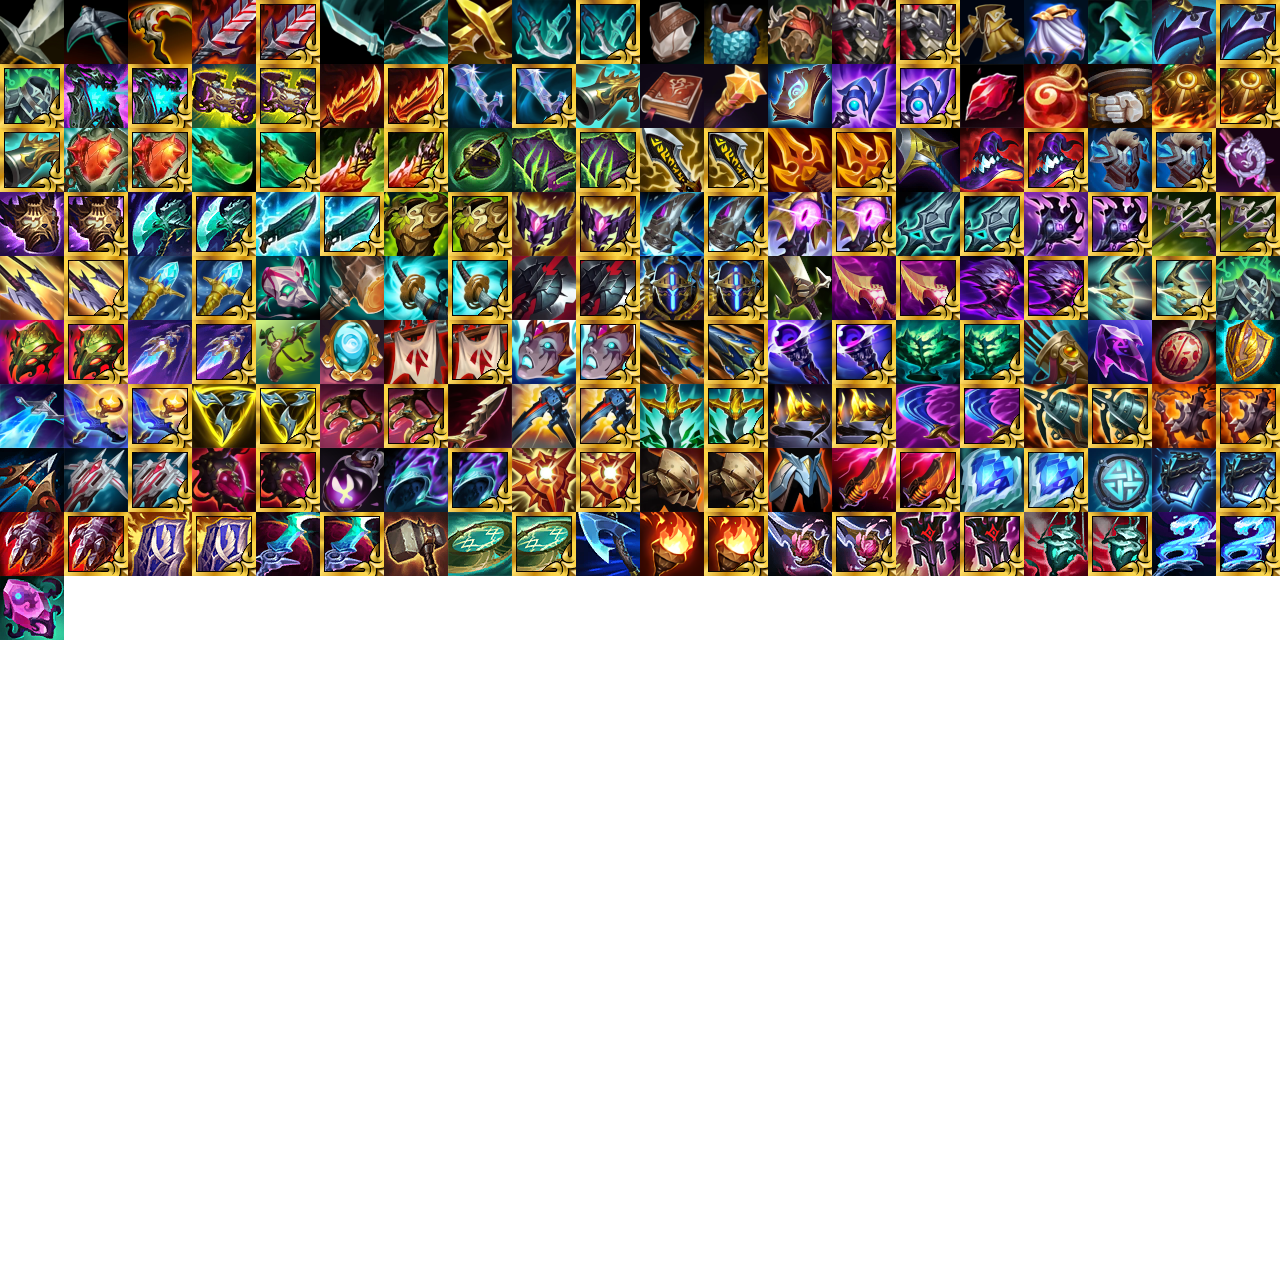
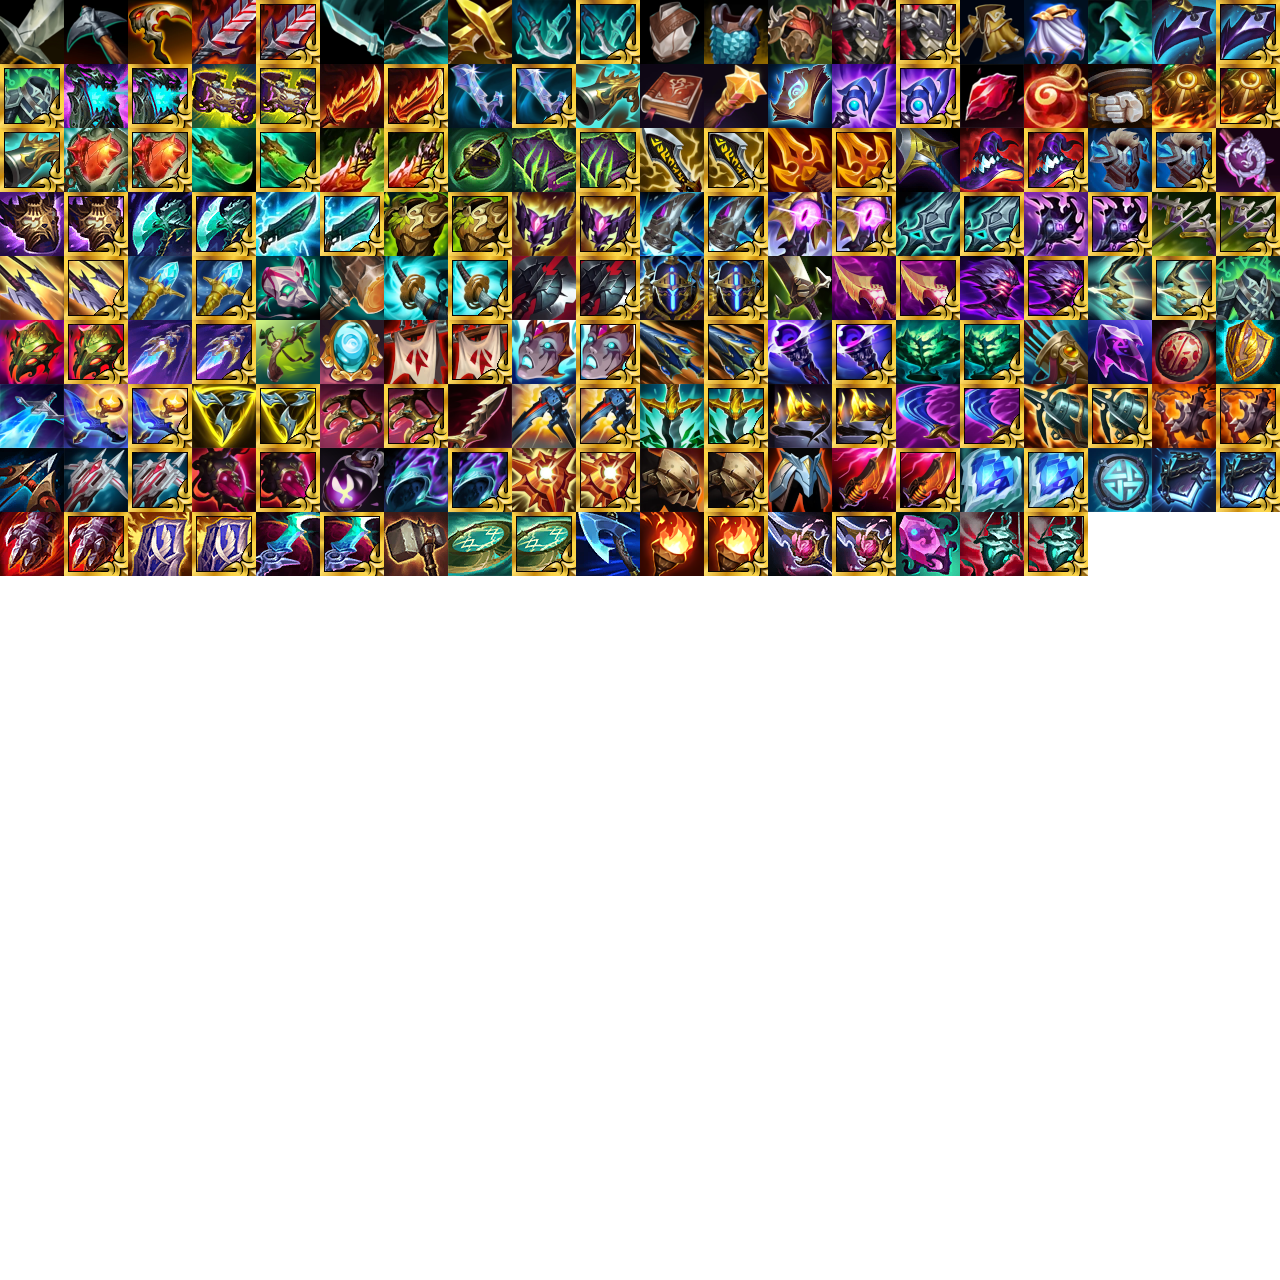
sword changes and fix for sprite sheet

Changed region(s): [[0.6875, 0.375, 1.0, 0.4688], [0.0, 0.4375, 0.0625, 0.5]]

diff --git a/src/items/support/sword_of_blossoming_dawn.rs b/src/items/support/sword_of_blossoming_dawn.rs
@@ -1,9 +1,8 @@
 use mod_api_stable::*;
 
 use crate::config::ItemConfig;
-use crate::{apply_config, ItemMeta};
+use crate::{apply_config, percent_of, ItemMeta, DISTANCE_UNITS_PER_RANGE};
 
-/// Raw stats only — no passive yet.
 #[derive(Clone, Debug)]
 pub struct SwordOfBlossomingDawn {
     meta: ItemMeta,
@@ -12,6 +11,11 @@ pub struct SwordOfBlossomingDawn {
     hp: i32,
     magic_power: i32,
     skill_cooldown_mult: i32,
+    effect_min_heal: usize,
+    effect_max_heal: usize,
+    effect_ad_percent_heal: f64,
+    effect_ap_percent_heal: f64,
+    effect_max_distance: usize,
 }
 
 impl SwordOfBlossomingDawn {
@@ -27,6 +31,11 @@ impl SwordOfBlossomingDawn {
             hp: 200,
             magic_power: 40,
             skill_cooldown_mult: 10,
+            effect_min_heal: 15,
+            effect_max_heal: 60,
+            effect_ad_percent_heal: 7.0,
+            effect_ap_percent_heal: 7.0,
+            effect_max_distance: 100,
         }
     }
 
@@ -62,10 +71,26 @@ impl SwordOfBlossomingDawn {
                 attack_speed_mult,
                 hp,
                 magic_power,
-                skill_cooldown_mult
+                skill_cooldown_mult,
+                effect_min_heal,
+                effect_max_heal,
+                effect_ad_percent_heal,
+                effect_ap_percent_heal,
+                effect_max_distance
             ]
         );
         self
+    }
+
+    /// Level 1 pays `effect_min_heal` and level 12 pays `effect_max_heal`,
+    /// the same eleven-step ramp `bloodsong` uses for Spellblade.
+    fn heal_amount(&self, level: usize, attack: usize, magic_power: usize) -> usize {
+        let per_level =
+            ((self.effect_max_heal - self.effect_min_heal) as f64 / 11.0).round() as usize;
+        self.effect_min_heal
+            + level.saturating_sub(1) * per_level
+            + percent_of(attack, self.effect_ad_percent_heal)
+            + percent_of(magic_power, self.effect_ap_percent_heal)
     }
 }
 
@@ -113,6 +138,77 @@ impl StableItem for SwordOfBlossomingDawn {
             ult_cooldown_mult: self.skill_cooldown_mult,
             ..Default::default()
         }
+    }
+
+    // Basic attacks heal the most wounded ally in range. "Most wounded" is the
+    // lowest fraction of maximum health rather than the lowest number, so a
+    // chipped tank does not outrank a nearly dead carry; distance only breaks
+    // ties. The carrier is not a candidate, matching the other ally-facing
+    // items here (`zekes_herald`, `locket_of_the_iron_solari`).
+    fn on_attack(
+        &mut self,
+        ctx: &mut StableSim<'_>,
+        caster: usize,
+        _target: usize,
+        _damage: &mut usize,
+        _damage_type: DamageTypeV1,
+        attack_type: AttackTypeV1,
+        _is_crit: bool,
+    ) {
+        if attack_type != AttackTypeV1::BaseAttack {
+            return;
+        }
+        let Some((level, attack, magic_power, caster_team)) =
+            ctx.get_entity(caster).map(|caster_ref| {
+                let stat = caster_ref.stat();
+                (
+                    caster_ref.level(),
+                    stat.attack,
+                    stat.magic_power,
+                    caster_ref.team(),
+                )
+            })
+        else {
+            return;
+        };
+
+        let range = (self.effect_max_distance * DISTANCE_UNITS_PER_RANGE) as u64;
+        let range_sq = range * range;
+
+        let mut best: Option<(usize, f64, u64)> = None;
+        for index in 0..ctx.champion_count() {
+            let id = ctx.champion_id_at(index);
+            if id == caster {
+                continue;
+            }
+            let Some(ally_ref) = ctx.get_entity(id) else {
+                continue;
+            };
+            if !ally_ref.is_alive() || ally_ref.team() != caster_team {
+                continue;
+            }
+            let distance = ctx.distance_sq(caster, id);
+            if distance > range_sq {
+                continue;
+            }
+            let (current, max) = ally_ref.hp();
+            if max == 0 {
+                continue;
+            }
+            let wounded = current as f64 / max as f64;
+            let better = best.is_none_or(|(_, best_wounded, best_distance)| {
+                wounded < best_wounded || (wounded == best_wounded && distance < best_distance)
+            });
+            if better {
+                best = Some((id, wounded, distance));
+            }
+        }
+
+        let Some((ally, _, _)) = best else {
+            return;
+        };
+        let heal = self.heal_amount(level, attack, magic_power);
+        ctx.heal(caster, ally, heal);
     }
 
     fn tags(&self) -> Vec<ItemTagV1> {

diff --git a/src/config.rs b/src/config.rs
@@ -76,6 +76,7 @@ pub struct ItemConfig {
     pub effect_bonus_flat_hp: Option<i32>,
     pub effect_hp_percent_boost: Option<f64>,
     pub effect_hp_percent_threshold: Option<f64>,
+    pub effect_bonus_damage_when_low: Option<f64>,
     pub effect_bonus_hp_percent_of_damage: Option<f64>,
     pub effect_cooldown_seconds: Option<f64>,
     pub effect_shield_seconds: Option<f64>,
@@ -84,9 +85,14 @@ pub struct ItemConfig {
     pub effect_caster_hp_percent_shield: Option<f64>,
     pub effect_heal_mult: Option<f64>,
     pub effect_bonus_flat_heal: Option<i32>,
+    pub effect_min_heal: Option<usize>,
+    pub effect_max_heal: Option<usize>,
+    pub effect_ad_percent_heal: Option<f64>,
+    pub effect_ap_percent_heal: Option<f64>,
     pub effect_caster_hp_percent_heal: Option<f64>,
     pub effect_caster_ap_percent_heal: Option<f64>,
     pub effect_crit_damage_percent_heal: Option<f64>,
+    pub effect_crit_damage_bonus: Option<i32>,
     pub effect_delayed_damage_percent: Option<f64>,
     pub effect_burn_hp_percent_cap: Option<f64>,
     pub effect_kill_heal_missing_percent: Option<f64>,

diff --git a/src/items/fighter/eclipse.rs b/src/items/fighter/eclipse.rs
@@ -28,7 +28,7 @@ impl Eclipse {
             price: 1300,
             attack: 55,
             skill_cooldown_mult: 15,
-            effect_hp_percent_damage: 6.0,
+            effect_hp_percent_damage: 5.0,
             effect_bonus_flat_shield: 100,
             effect_ad_percent_shield: 15.0,
             effect_duration_seconds: 2.0,
@@ -45,8 +45,8 @@ impl Eclipse {
             price: 1950,
             attack: 95,
             skill_cooldown_mult: 15,
-            effect_hp_percent_damage: 10.0,
-            effect_bonus_flat_shield: 160,
+            effect_hp_percent_damage: 8.0,
+            effect_bonus_flat_shield: 120,
             effect_ad_percent_shield: 20.0,
             effect_duration_seconds: 2.0,
             effect_shield_seconds: 2.0,

diff --git a/src/items/mage/shadowflame.rs b/src/items/mage/shadowflame.rs
@@ -57,7 +57,8 @@ impl Shadowflame {
                 price,
                 magic_power,
                 magic_resistance_penetration,
-                effect_hp_percent_threshold
+                effect_hp_percent_threshold,
+                effect_bonus_damage_when_low
             ]
         );
         self

diff --git a/src/items/marksman/infinity_edge.rs b/src/items/marksman/infinity_edge.rs
@@ -42,7 +42,7 @@ impl InfinityEdge {
     }
 
     fn configured(mut self, cfg: &ItemConfig) -> Self {
-        apply_config!(self, cfg, [price, attack, crit_chance]);
+        apply_config!(self, cfg, [price, attack, crit_chance, effect_crit_damage_bonus]);
         self
     }
 }

diff --git a/README.md b/README.md
@@ -63,7 +63,7 @@ https://docs.google.com/spreadsheets/d/e/2PACX-1vRnFUzULF0sIUQt4UwlOf0CGtuc9nJWp
 | **Diamond Tipped Spear** | 1500G | +35% AS<br>+10% CDR | Pierce: Gain 60 Adaptive Force. Each Adaptive Force grants 0.6 Attack Damage or 1 Ability Power, depending on which is higher.<br>Sweet Spot: Deal up to 25% bonus damage to enemy champions based on distance (maximum effect at 100 range). |
 | **Dusk and Dawn** | 1400G | +200 HP<br>+75 AP<br>+15% AS<br>+10% CDR | Spellblade: Landing an Ability on an enemy champion causes your next basic attack to deal 85 + 15% of your Ability Power as bonus magic damage and heal you for 10% of your Ability Power and 2.5% of your maximum health (3.5 second cooldown). |
 | **Echoes of Helia** | 1100G | +250 HP<br>+4 HP Regen<br>+45 AP<br>+15% CDR | Soul Siphon: Store 30% of the damage you deal or take as Soul Charges, up to 130 - 350 (based on level). Healing, shielding or buffing an allied champion consumes all Soul Charges and heals them equal to the consumed amount. |
-| **Eclipse** | 1300G | +55 AD<br>+15% CDR | Ever Rising Moon: Landing a basic attack or an Ability on an enemy champion marks them for 2 seconds, up to once per cast. Hitting a champion that is already marked consumes the mark to deal bonus physical damage equal to 6% of their maximum health and grant you a shield of 100 + 15% of your Attack Damage for 2 seconds (6 second cooldown). |
+| **Eclipse** | 1300G | +55 AD<br>+15% CDR | Ever Rising Moon: Landing a basic attack or an Ability on an enemy champion marks them for 2 seconds, up to once per cast instance. Hitting a marked champion consumes the mark to deal bonus physical damage equal to 5% of their maximum health and grant you a shield that absorbs 100 + 15% of your Attack Damage for 2 seconds (6 second cooldown). |
 | **Experimental Hexplate** | 1200G | +350 HP<br>+35% AS | Overdrive: Gain 15% cooldown reduction on your ultimate skill. |
 | **Feral Flare** | 1400G | +45 AD<br>+20% AS<br>+20 Armor | Maim: Gain a Feral stack for each champion takedown scored and monster killed, up to 50. Basic attacks deal 25 (+1 per Feral stack) bonus magic damage and restore 15 health. This effect is 150% effective against minions and monsters. |
 | **Frozen Heart** | 1300G | +65 Armor<br>+10% CDR<br>+10% Skill DMG Reduction | Winter's Caress: Reduce the attack speed of enemy champions within 100 range by 30%. |
@@ -100,7 +100,7 @@ https://docs.google.com/spreadsheets/d/e/2PACX-1vRnFUzULF0sIUQt4UwlOf0CGtuc9nJWp
 | **Sterak's Gage** | 1400G | +400 HP<br>+30 AD<br>+15% Tenacity | Lifeline: Taking damage that would reduce you below 30% health grants a shield that absorbs damage equal to 60% of your maximum health for 4 seconds (90 second cooldown). |
 | **Stormrazor** | 1550G | +65 AD<br>+20% AS<br>+20% Crit Chance | Energized: Moving and basic attacking generates Energize stacks, up to 100.<br>Bolt: When fully Energized, your next basic attack deals 100 bonus magic damage and grants you 35% movement speed for 1.5 seconds. |
 | **Sundered Sky** | 1400G | +400 HP<br>+30 AD<br>+10% CDR | Lightshield Strike: Your next basic attack against an enemy champion critically strikes for 20% bonus damage and heals you for 60 + 6% of your missing health (20 second cooldown per target). |
-| **Sword of Blossoming Dawn** | 1000G | +200 HP<br>+40 AP<br>+20% AS<br>+10% CDR | — |
+| **Sword of Blossoming Dawn** | 1000G | +200 HP<br>+40 AP<br>+20% AS<br>+10% CDR | Basic attacks heal the most wounded and nearest ally champion for 15 - 60 (based on level) (+7% AD) (+7% AP) health. |
 | **Terminus** | 1400G | +30 AD<br>+35% AS<br>+20% Crit Chance | Juxtaposition: Basic attacks grant either 4% armor penetration or 4% magic resistance penetration for 4 seconds, alternating (max 4 stacks each). |
 | **Trinity Force** | 1400G | +200 HP<br>+30 AD<br>+15% AS<br>+10% CDR | Spellblade: Landing an Ability on an enemy champion causes your next basic attack to deal 33 + 33% of your Attack Damage as bonus physical damage (3.5 second cooldown). |
 | **Unending Despair** | 1450G | +450 HP<br>+30 Armor | Anguish: Landing an Ability on an enemy champion heals you for 35 + 1% of your maximum health. |
@@ -130,7 +130,7 @@ https://docs.google.com/spreadsheets/d/e/2PACX-1vRnFUzULF0sIUQt4UwlOf0CGtuc9nJWp
 | **Radiant Diamond Tipped Spear** | 2250G | +60% AS<br>+10% CDR | Pierce: Gain 100 Adaptive Force. Each Adaptive Force grants 0.6 Attack Damage or 1 Ability Power, depending on which is higher.<br>Sweet Spot: Deal up to 25% bonus damage to enemy champions based on distance (maximum effect at 100 range). |
 | **Radiant Dusk and Dawn** | 2000G | +300 HP<br>+125 AP<br>+25% AS<br>+20% CDR | Spellblade: Landing an Ability on an enemy champion causes your next basic attack to deal 85 + 15% of your Ability Power as bonus magic damage and heal you for 10% of your Ability Power and 2.5% of your maximum health (3.5 second cooldown). |
 | **Radiant Echoes of Helia** | 1500G | +450 HP<br>+6 HP Regen<br>+65 AP<br>+20% CDR | Soul Siphon: Store 30% of the damage you deal or take as Soul Charges, up to 130 - 350 (based on level). Healing, shielding or buffing an allied champion consumes all Soul Charges and heals them equal to the consumed amount. |
-| **Radiant Eclipse** | 1950G | +95 AD<br>+15% CDR | Ever Rising Moon: Landing a basic attack or an Ability on an enemy champion marks them for 2 seconds, up to once per cast. Hitting a champion that is already marked consumes the mark to deal bonus physical damage equal to 10% of their maximum health and grant you a shield of 160 + 20% of your Attack Damage for 2 seconds (6 second cooldown). |
+| **Radiant Eclipse** | 1950G | +95 AD<br>+15% CDR | Ever Rising Moon: Landing a basic attack or an Ability on an enemy champion marks them for 2 seconds, up to once per cast instance. Hitting a marked champion consumes the mark to deal bonus physical damage equal to 8% of their maximum health and grant you a shield that absorbs 120 + 20% of your Attack Damage for 2 seconds (6 second cooldown). |
 | **Radiant Experimental Hexplate** | 1850G | +500 HP<br>+50% AS<br>+5% MS | Overdrive: Gain 25% cooldown reduction on your ultimate skill. |
 | **Radiant Feral Flare** | 2000G | +55 AD<br>+40% AS<br>+40 Armor | Maim: Gain a Feral stack for each champion takedown scored and monster killed, up to 50. Basic attacks deal 25 (+1 per Feral stack) bonus magic damage and restore 15 health. This effect is 150% effective against minions and monsters. |
 | **Radiant Frozen Heart** | 1900G | +110 Armor<br>+15% CDR<br>+15% Skill DMG Reduction | Winter's Caress: Reduce the attack speed of enemy champions within 100 range by 30%. |
@@ -167,7 +167,7 @@ https://docs.google.com/spreadsheets/d/e/2PACX-1vRnFUzULF0sIUQt4UwlOf0CGtuc9nJWp
 | **Radiant Sterak's Gage** | 2000G | +650 HP<br>+50 AD<br>+20% Tenacity | Lifeline: Taking damage that would reduce you below 30% health grants a shield that absorbs damage equal to 60% of your maximum health for 4 seconds (90 second cooldown). |
 | **Radiant Stormrazor** | 2200G | +100 AD<br>+40% AS<br>+25% Crit Chance | Energized: Moving and basic attacking generates Energize stacks, up to 100.<br>Bolt: When fully Energized, your next basic attack deals 100 bonus magic damage and grants you 35% movement speed for 1.5 seconds. |
 | **Radiant Sundered Sky** | 2000G | +550 HP<br>+65 AD<br>+20% CDR | Lightshield Strike: Your next basic attack against an enemy champion critically strikes for 20% bonus damage and heals you for 60 + 10% of your missing health (20 second cooldown per target). |
-| **Radiant Sword of Blossoming Dawn** | 1700G | +350 HP<br>+70 AP<br>+35% AS<br>+15% CDR | — |
+| **Radiant Sword of Blossoming Dawn** | 1700G | +350 HP<br>+70 AP<br>+35% AS<br>+15% CDR | Basic attacks heal the most wounded and nearest ally champion for 15 - 60 (based on level) (+7% AD) (+7% AP) health. |
 | **Radiant Terminus** | 2000G | +50 AD<br>+60% AS<br>+25% Crit Chance | Juxtaposition: Basic attacks grant either 4% armor penetration or 4% magic resistance penetration for 4 seconds, alternating (max 4 stacks each). |
 | **Radiant Trinity Force** | 2000G | +333 HP<br>+33 AD<br>+33% AS<br>+20% CDR | Spellblade: Landing an Ability on an enemy champion causes your next basic attack to deal 33 + 33% of your Attack Damage as bonus physical damage (3.5 second cooldown). |
 | **Radiant Unending Despair** | 2100G | +700 HP<br>+50 Armor | Anguish: Landing an Ability on an enemy champion heals you for 50 + 2.5% of your maximum health. |
